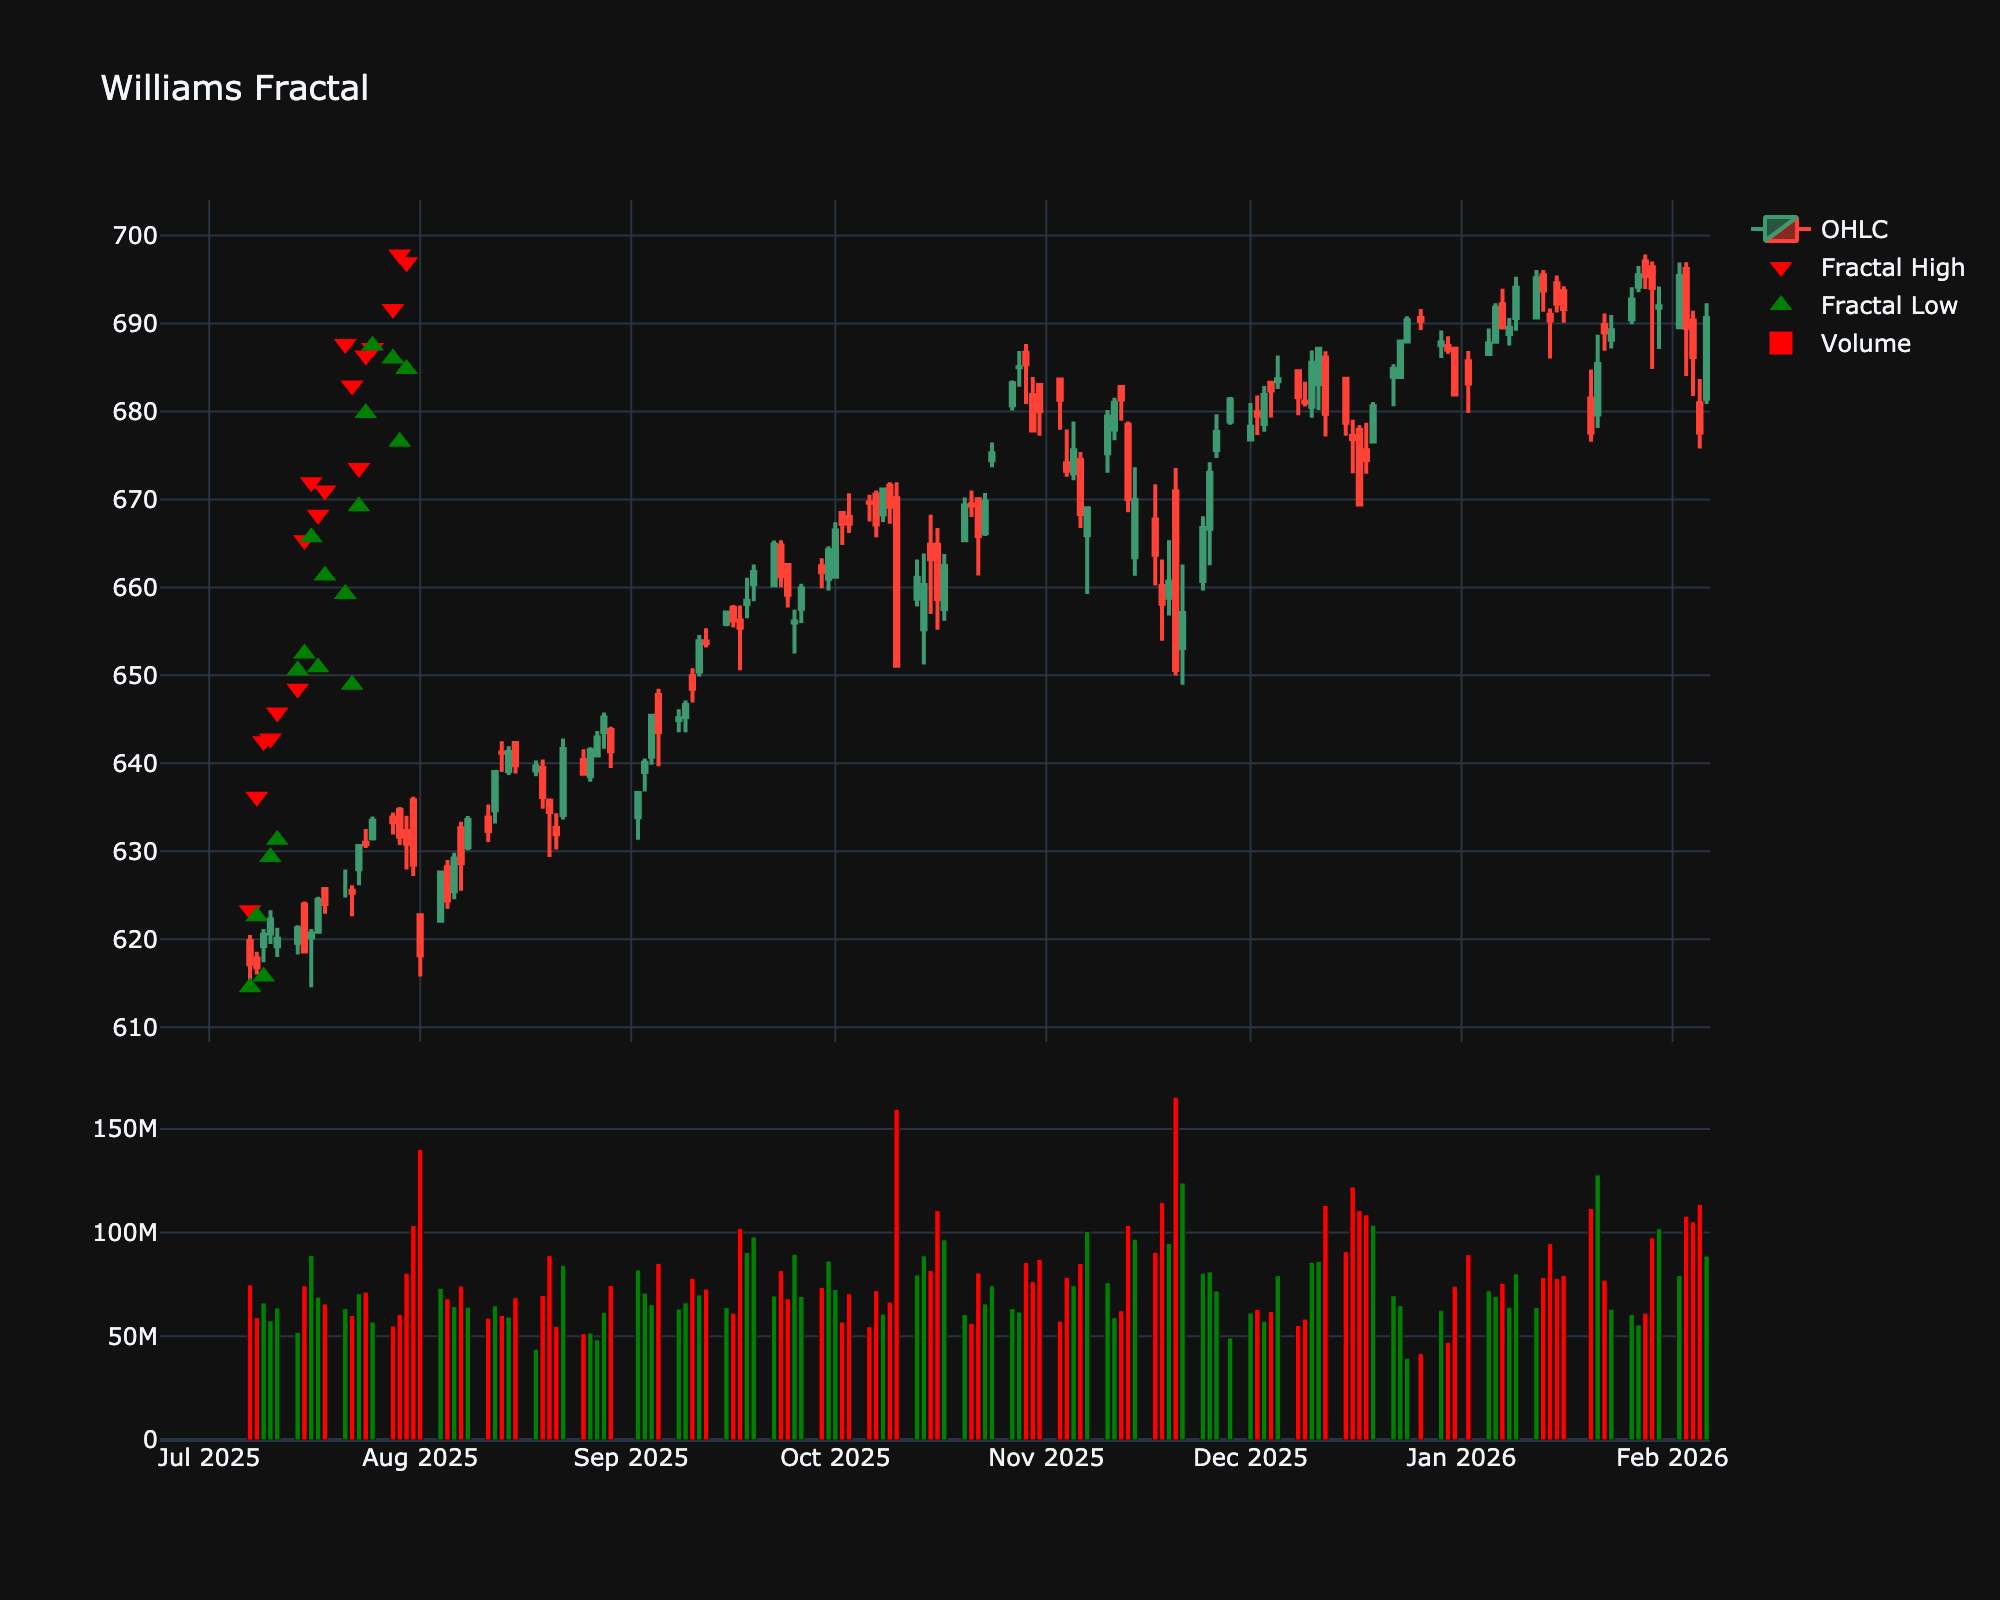
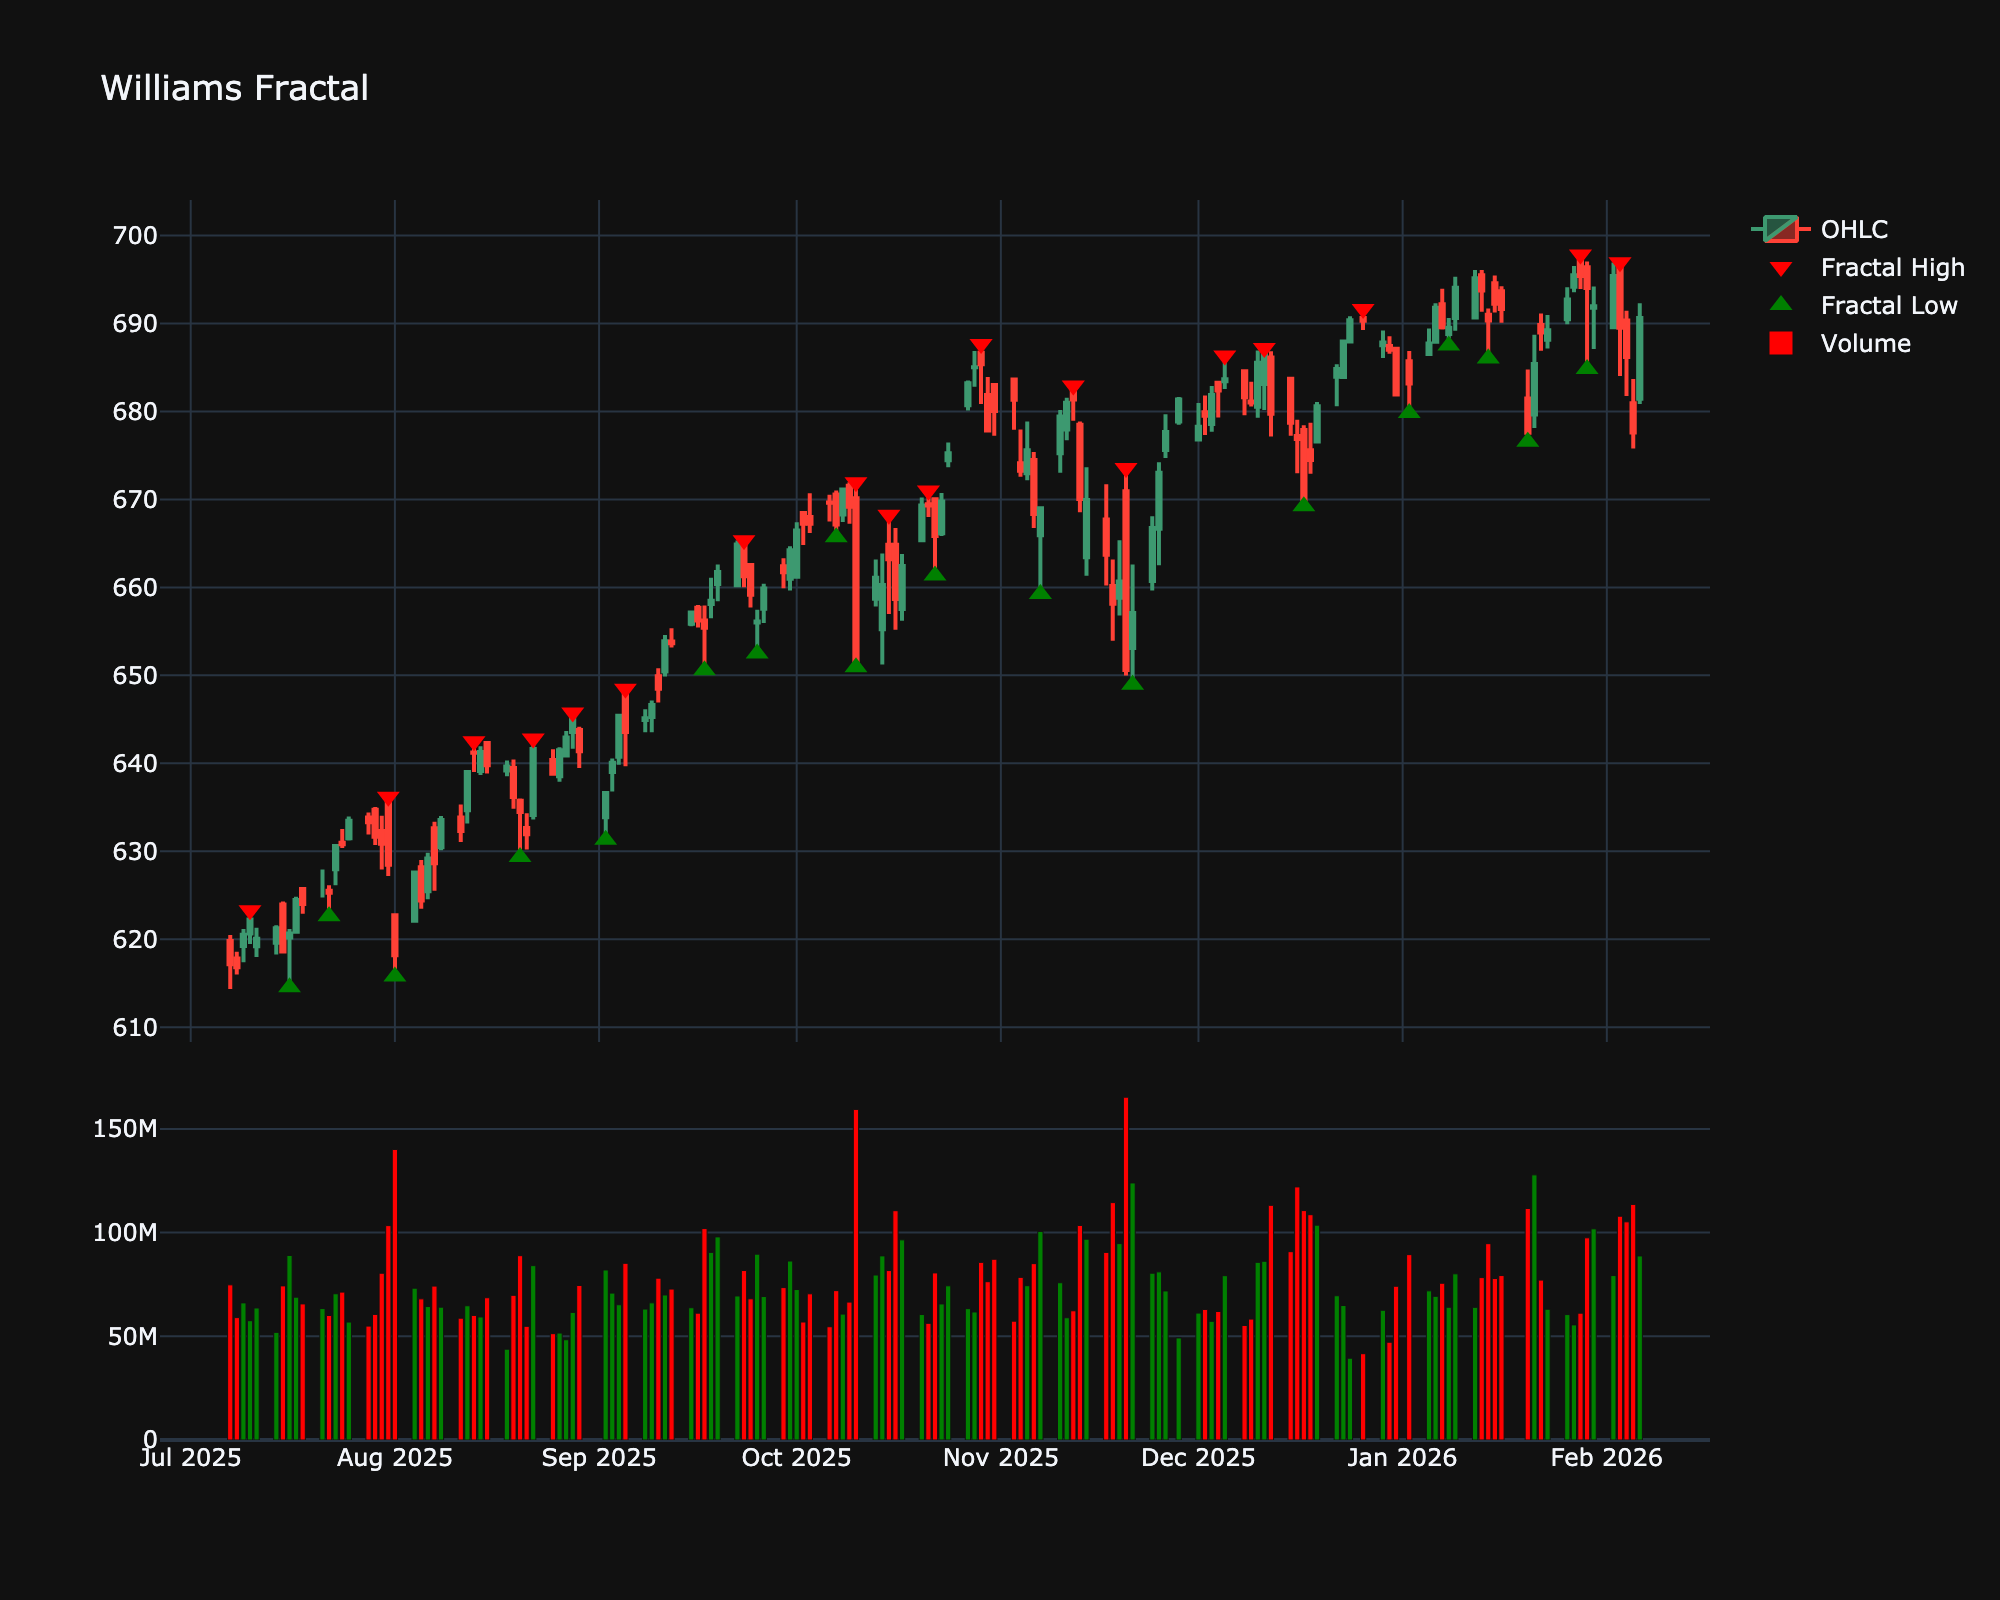
charts

diff --git a/utils/utils.py b/utils/utils.py
@@ -272,6 +272,13 @@ def generate_plots(df):
         hlines = [(0, 'white', 'solid')]
         create_chart(view_df, 'Rate of Change (ROC)', "ROC.png", oscillator_traces=[go.Scatter(x=view_df.index, y=roc.tail(150), name='ROC', line=dict(color='cyan'))], oscillator_hlines=hlines)
     except Exception as e: print(f"ROC: {e}")
+
+    try:
+        mom = df.ta.mom()
+        view_df = df.tail(150)
+        hlines = [(0, 'white', 'solid')]
+        create_chart(view_df, 'Momentum (MOM)', "Momentum.png", oscillator_traces=[go.Scatter(x=view_df.index, y=mom.tail(150), name='MOM', line=dict(color='yellow'))], oscillator_hlines=hlines)
+    except Exception as e: print(f"MOM: {e}")
     
     try:
         obv = df.ta.obv()
@@ -593,6 +600,12 @@ def generate_plots(df):
     # --- Batch 9: Others ---
 
     try:
+        # Volume (Basic)
+        view_df = df.tail(150)
+        create_chart(view_df, 'Volume', "Volume.png")
+    except Exception as e: print(f"Volume: {e}")
+
+    try:
         # Average Price
         d = (df['High'] + df['Low'] + df['Close'] + df['Open']) / 4
         view_df = df.tail(150)
@@ -638,7 +651,7 @@ def generate_plots(df):
         view_df = df.tail(150)
         osc_traces = [go.Scatter(x=view_df.index, y=ratio.tail(150), name='Close/SMA50', line=dict(color='orange'))]
         hlines = [(1, 'white', 'dash')]
-        create_chart(view_df, 'Price Ratio (Close / SMA50)', "Ratio_SMA50.png", oscillator_traces=osc_traces, oscillator_hlines=hlines)
+        create_chart(view_df, 'Price Ratio (Close / SMA50)', "Ratio.png", oscillator_traces=osc_traces, oscillator_hlines=hlines)
     except Exception as e: print(f"Ratio: {e}")
     
     try:
@@ -706,13 +719,17 @@ def generate_plots(df):
         is_fractal_l = (l < l.shift(1)) & (l < l.shift(2)) & (l < l.shift(-1)) & (l < l.shift(-2))
         
         view_df = df.tail(150)
-        # Re-calc boolean on view_df or map index
-        frac_h = df[is_fractal_h].reindex(view_df.index)
-        frac_l = df[is_fractal_l].reindex(view_df.index)
+        # Filter masks for the view range
+        mask_h = is_fractal_h.reindex(view_df.index).fillna(False)
+        mask_l = is_fractal_l.reindex(view_df.index).fillna(False)
+        
+        # Apply masks to get only the points where fractals exist
+        fh_points = view_df[mask_h]
+        fl_points = view_df[mask_l]
         
         overlay = [
-             go.Scatter(x=view_df.index, y=view_df['High'][is_fractal_h], mode='markers', name='Fractal High', marker=dict(symbol='triangle-down', size=10, color='red')),
-             go.Scatter(x=view_df.index, y=view_df['Low'][is_fractal_l], mode='markers', name='Fractal Low', marker=dict(symbol='triangle-up', size=10, color='green'))
+             go.Scatter(x=fh_points.index, y=fh_points['High'], mode='markers', name='Fractal High', marker=dict(symbol='triangle-down', size=10, color='red')),
+             go.Scatter(x=fl_points.index, y=fl_points['Low'], mode='markers', name='Fractal Low', marker=dict(symbol='triangle-up', size=10, color='green'))
         ]
         create_chart(view_df, 'Williams Fractal', "Fractal.png", overlay_traces=overlay)
     except Exception as e: print(f"Fractal: {e}")

diff --git a/docs/indicators.md b/docs/indicators.md
@@ -53,41 +53,41 @@ This comprehensive catalog provides a technical breakdown of all **85 indicators
 *Simplest transforms of raw Open, High, Low, Close, and Volume (OHLCV) data.*
 
 1. **[Average Price (AP)](indicators/Average_Price.md):** An arithmetic mean of the High, Low, and Close for a single period.
-   * **Equation:** $(H + L + C) / 3$
-   * **Category:** Trend/Benchmark
-   * **Use Case:** Provides a simplified representation of a single bar's price action.
+    * **Equation:** $(H + L + C) / 3$
+    * **Category:** Trend/Benchmark
+    * **Use Case:** Provides a simplified representation of a single bar's price action.
 2. **[Median Price (MP)](indicators/Median_Price.md):** The exact middle point between the High and Low of a specific time period.
-   * **Equation:** $(H + L) / 2$
-   * **Category:** Trend/Benchmark
-   * **Use Case:** Identifies the midpoint of a bar's range, often used as an input for oscillators.
+    * **Equation:** $(H + L) / 2$
+    * **Category:** Trend/Benchmark
+    * **Use Case:** Identifies the midpoint of a bar's range, often used as an input for oscillators.
 3. **[Typical Price (TP)](indicators/Typical_Price.md):** A standard price calculation used as a more accurate representation of the average price than just the close.
-   * **Equation:** $(H + L + C) / 3$
-   * **Category:** Trend/Benchmark
-   * **Use Case:** Serves as the base input for more complex indicators like CCI and VWAP.
+    * **Equation:** $(H + L + C) / 3$
+    * **Category:** Trend/Benchmark
+    * **Use Case:** Serves as the base input for more complex indicators like CCI and VWAP.
 4. **[Volume (V)](indicators/Volume.md):** The total number of shares or contracts traded during a specific time interval.
-   * **Equation:** $\sum \text{Trades}$
-   * **Category:** Volume
-   * **Use Case:** Gauges market activity and validates the strength of price moves.
+    * **Equation:** $\sum \text{Trades}$
+    * **Category:** Volume
+    * **Use Case:** Gauges market activity and validates the strength of price moves.
 5. **[Standard Deviation (StdDev)](indicators/Standard_Deviation.md):** A statistical measure of how much price deviates from its mean.
-   * **Equation:** $\sqrt{\frac{1}{N} \sum_{i=1}^{N} (x_i - \bar{x})^2}$
-   * **Category:** Volatility
-   * **Use Case:** Quantifies market risk and serves as the backbone for Bollinger Bands.
+    * **Equation:** $\sqrt{\frac{1}{N} \sum_{i=1}^{N} (x_i - \bar{x})^2}$
+    * **Category:** Volatility
+    * **Use Case:** Quantifies market risk and serves as the backbone for Bollinger Bands.
 6. **[Historical Volatility (HV)](indicators/Historical_Volatility.md):** The realized variance of an asset based on past price changes.
-   * **Equation:** $\text{Annualized StdDev of Log Returns}$
-   * **Category:** Volatility
-   * **Use Case:** Assesses the historical risk profile and prices options.
+    * **Equation:** $\text{Annualized StdDev of Log Returns}$
+    * **Category:** Volatility
+    * **Use Case:** Assesses the historical risk profile and prices options.
 7. **[Volatility Close-to-Close (C-C Vol)](indicators/Volatility_Close_To_Close.md):** A volatility estimate calculated using only the closing prices of consecutive bars.
-   * **Equation:** $\sqrt{\frac{1}{n-1} \sum (\ln(\frac{C_t}{C_{t-1}}) - \mu)^2}$
-   * **Category:** Volatility
-   * **Use Case:** Measures price dispersion specifically focused on settlement prices.
+    * **Equation:** $\sqrt{\frac{1}{n-1} \sum (\ln(\frac{C_t}{C_{t-1}}) - \mu)^2}$
+    * **Category:** Volatility
+    * **Use Case:** Measures price dispersion specifically focused on settlement prices.
 8. **[Volatility O-H-L-C (OHLC Vol)](indicators/Volatility_OHLC.md):** A more efficient volatility estimator that incorporates the intrabar range.
-   * **Equation:** Uses Parkinson or Garman-Klass formulas (e.g., $0.511(H-L)^2 - \dots$)
-   * **Category:** Volatility
-   * **Use Case:** Provides a more granular risk assessment than close-only models.
+    * **Equation:** Uses Parkinson or Garman-Klass formulas (e.g., $0.511(H-L)^2 - \dots$)
+    * **Category:** Volatility
+    * **Use Case:** Provides a more granular risk assessment than close-only models.
 9. **[Volatility Zero-Trend C-C (Z-Trend Vol)](indicators/Volatility_Zero_Trend_Close_To_Close.md):** A variance calculation that assumes the mean return (drift) is zero.
-   * **Equation:** $\sqrt{\frac{1}{n} \sum (\ln(\frac{C_t}{C_{t-1}}))^2}$
-   * **Category:** Volatility
-   * **Use Case:** Useful for high-frequency data where drift is negligible.
+    * **Equation:** $\sqrt{\frac{1}{n} \sum (\ln(\frac{C_t}{C_{t-1}}))^2}$
+    * **Category:** Volatility
+    * **Use Case:** Useful for high-frequency data where drift is negligible.
 10. **[Rate of Change (ROC)](indicators/ROC.md):** Measures the percentage change in price between the current period and a period $n$ days ago.
     * **Equation:** $(\frac{C_t - C_{t-n}}{C_{t-n}}) \times 100$
     * **Category:** Momentum
@@ -431,4 +431,3 @@ This comprehensive catalog provides a technical breakdown of all **85 indicators
 3.  **Level 3 (Derivatives):** Using averages to find relative value (e.g., Bollinger Bands).
 4.  **Level 4 (Advanced):** Recursive logic, multi-factor integration, and adaptive speed (e.g., KAMA, Ichimoku).
 
-Would you like me to create the **Python visualizer** to demonstrate how a Level 1 error (like a price spike) propagates through these levels?

diff --git a/docs/indicators/Ratio.md b/docs/indicators/Ratio.md
@@ -14,6 +14,10 @@ $$
 \text{Ratio} = \frac{\text{Series A}}{\text{Series B}}
 $$
 
+## Visualization
+
+![Ratio (RAT)](plots/Ratio.png)
+
 ## Trading Significance
 
 1.  **Relative Strength**: Used to see if one asset is outperforming another (e.g., Tech vs. SP500).

diff --git a/docs/indicators/Volume.md b/docs/indicators/Volume.md
@@ -10,7 +10,7 @@ Volume represents the total number of shares or contracts traded for a specified
 
 ## Visualization
 
-*(Placeholder: Basic Volume Bar Chart)*
+![Volume (V)](plots/Volume.png)
 
 ## Trading Significance
 
